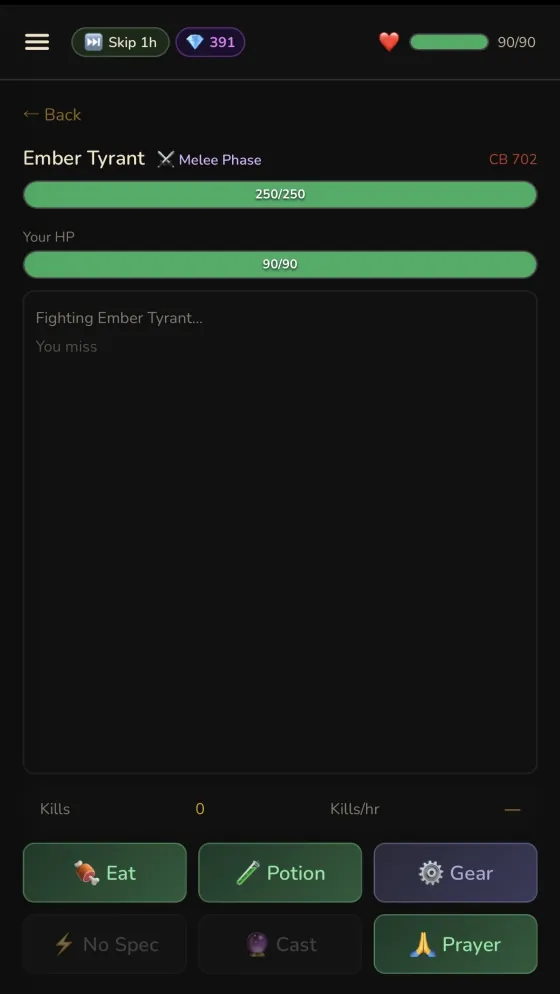
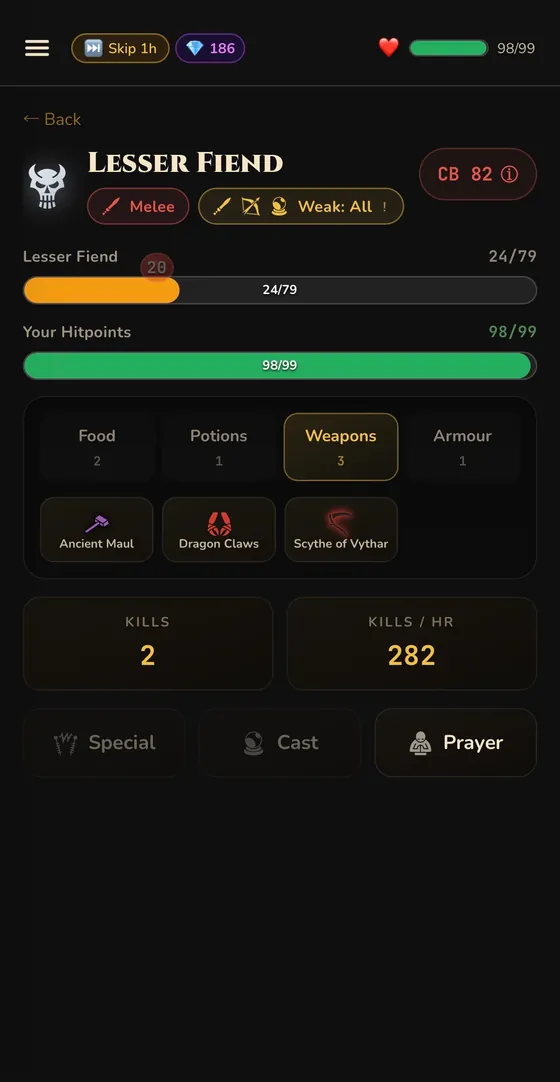
Refresh landing page screenshots with current UI
Replace 5 outdated landing screenshots (stats, monster combat, monster/raid
list, collection log, trading post) with updated UI captures. Regenerate
240/360/480 webp variants and update hardcoded image dimensions/alt text in
the mobile and desktop landing screens.

Claude-Session: https://claude.ai/code/session_01SBkwx8JWzKbywu6hePPrUi

diff --git a/src/screens/DesktopLandingScreen.jsx b/src/screens/DesktopLandingScreen.jsx
@@ -14,16 +14,16 @@ import GameIcon from '../components/GameIcon.jsx'
 // of duplicate-identifier collisions with the mobile LandingScreen.
 
 const DL_LANDING_DIMS = {
-  'ss-stats':         { w: 560, h: 979  },
-  'ss-combat-select': { w: 560, h: 996  },
+  'ss-stats':         { w: 560, h: 1068 },
+  'ss-combat-select': { w: 560, h: 1070 },
   'ss-thieving':      { w: 560, h: 991  },
   'ss-bank':          { w: 560, h: 987  },
   'ss-quests':        { w: 560, h: 990  },
   'ss-inventory':     { w: 560, h: 985  },
-  'ss-combat':        { w: 560, h: 994  },
+  'ss-combat':        { w: 560, h: 1082 },
   'ss-farming':       { w: 560, h: 995  },
-  'ss-collection':    { w: 560, h: 998  },
-  'ss-trading':       { w: 560, h: 998  },
+  'ss-collection':    { w: 560, h: 1075 },
+  'ss-trading':       { w: 560, h: 1075 },
 }
 
 const DL_FEATURES = [
@@ -165,9 +165,9 @@ export default function DesktopLandingScreen({ onGitHubLogin, onGoogleLogin, emb
               </div>
             </div>
             <div class="dl-cluster">
-              <div class="dl-device dl-device--back"><img src={landingImages['ss-combat']} srcset={landingSrcSet(landingImages['ss-combat'])} sizes="202px" alt="Boss fight in progress" width="560" height="994" loading="eager" decoding="async" /></div>
+              <div class="dl-device dl-device--back"><img src={landingImages['ss-combat']} srcset={landingSrcSet(landingImages['ss-combat'])} sizes="202px" alt="Boss fight in progress" width="560" height="1082" loading="eager" decoding="async" /></div>
               <div class="dl-device dl-device--back2"><img src={landingImages['ss-inventory']} srcset={landingSrcSet(landingImages['ss-inventory'])} sizes="182px" alt="Full inventory grid" width="560" height="985" loading="eager" decoding="async" /></div>
-              <div class="dl-device dl-device--main"><img src={landingImages['ss-stats']} srcset={landingSrcSet(landingImages['ss-stats'])} sizes="250px" alt="Skills overview" width="560" height="979" loading="eager" fetchpriority="high" decoding="async" /></div>
+              <div class="dl-device dl-device--main"><img src={landingImages['ss-stats']} srcset={landingSrcSet(landingImages['ss-stats'])} sizes="250px" alt="Skills overview" width="560" height="1068" loading="eager" fetchpriority="high" decoding="async" /></div>
             </div>
           </div>
         </section>

diff --git a/src/screens/LandingScreen.jsx b/src/screens/LandingScreen.jsx
@@ -5,16 +5,16 @@ import { useIsDesktop } from '../hooks/useIsDesktop.js'
 import DesktopLandingScreen from './DesktopLandingScreen.jsx'
 
 const LANDING_DIMS = {
-  'ss-stats':         { w: 560, h: 979  },
-  'ss-combat-select': { w: 560, h: 996  },
+  'ss-stats':         { w: 560, h: 1068 },
+  'ss-combat-select': { w: 560, h: 1070 },
   'ss-thieving':      { w: 560, h: 991  },
   'ss-bank':          { w: 560, h: 987  },
   'ss-quests':        { w: 560, h: 990  },
   'ss-inventory':     { w: 560, h: 985  },
-  'ss-combat':        { w: 560, h: 994  },
+  'ss-combat':        { w: 560, h: 1082 },
   'ss-farming':       { w: 560, h: 995  },
-  'ss-collection':    { w: 560, h: 998  },
-  'ss-trading':       { w: 560, h: 998  },
+  'ss-collection':    { w: 560, h: 1075 },
+  'ss-trading':       { w: 560, h: 1075 },
 }
 
 const FEATURES = [
@@ -106,9 +106,9 @@ export default function LandingScreen({ onGitHubLogin, onGoogleLogin, embedded, 
             src={landingImages['ss-stats']}
             srcset={landingSrcSet(landingImages['ss-stats'])}
             sizes="280px"
-            alt="PocketRPG skills overview — Combat 102, Total Level 1457"
+            alt="PocketRPG skills overview — Combat 126, Total Level 2,376"
             class="w-full block"
-            width="560" height="979"
+            width="560" height="1068"
             loading="eager"
             fetchpriority="high"
             decoding="async"

diff --git a/public/landing/README.md b/public/landing/README.md
@@ -10,13 +10,13 @@ Target: each file < ~100 KB, phone-portrait aspect ratio.
 
 | Screenshot                                | Required filename       |
 | ----------------------------------------- | ----------------------- |
-| Stats screen (Combat 102, Total 1457)     | `ss-stats.webp`         |
+| Stats screen (Combat 126, Total 2,376)    | `ss-stats.webp`         |
 | Choose a Monster (boss list)              | `ss-combat-select.webp` |
 | Pickpocket Knight thieving activity       | `ss-thieving.webp`      |
 | Bank (item grid)                          | `ss-bank.webp`          |
 | Quests (115/168)                          | `ss-quests.webp`        |
 | Inventory (full 28-slot grid)             | `ss-inventory.webp`     |
-| Ember Tyrant boss combat                  | `ss-combat.webp`        |
+| Lesser Fiend monster combat               | `ss-combat.webp`        |
 | Collection Log                            | `ss-collection.webp`    |
 | Trading Post market                       | `ss-trading.webp`       |
 | Farming Locations                         | `ss-farming.webp`       |
